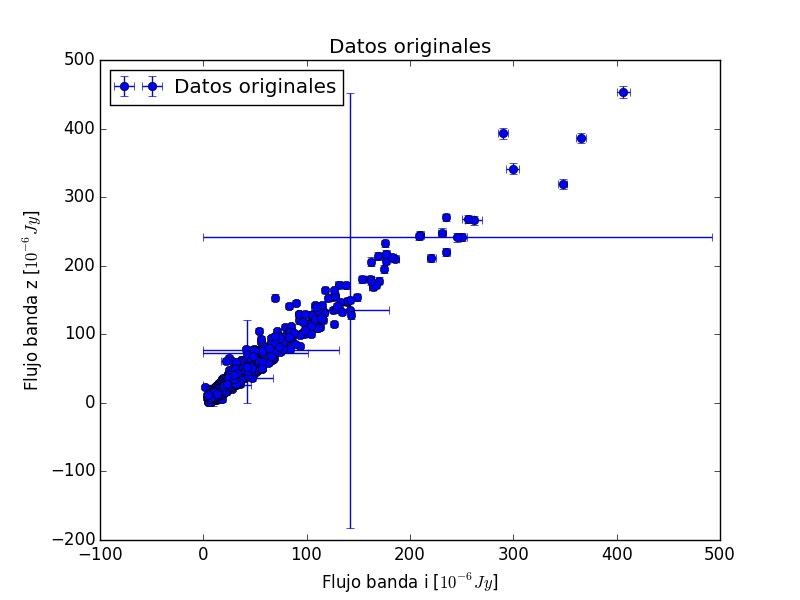
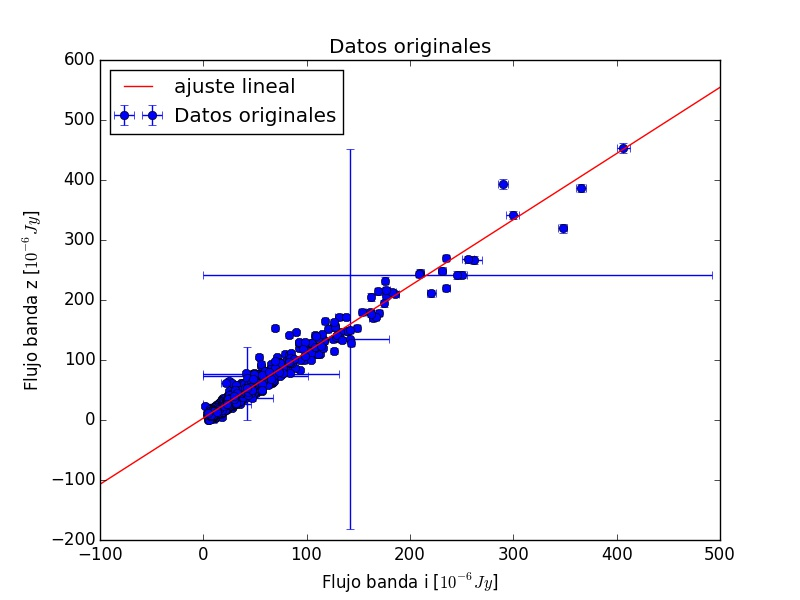
ajustelineal para p3

diff --git a/p3.py b/p3.py
@@ -9,11 +9,13 @@ import pdb
 co nfianza al 95 "%" a partir de los datos en data/DR9Q.dat '''
 
 
-def mostrar_datos(banda_i, error_i, banda_z, error_z):
+def mostrar_datos(banda_i, error_i, banda_z, error_z, c):
     '''grafica los datos'''
     ax, fig = plt.subplots()
-    plt.errorbar(banda_i, banda_z, xerr=error_i, yerr=error_z, fmt="o",
-                 label="Datos originales")
+    fig.errorbar(banda_i, banda_z, xerr=error_i, yerr=error_z, fmt="o",
+                 label="Datos originales y ajuste lineal")
+    x = np.linspace(-100, 500, 600)
+    fig.plot(x,c[1] + x*c[0], color="r", label="ajuste lineal")
     fig.set_title("Datos originales")
     fig.set_xlabel("Flujo banda i [$10^{-6}Jy$]")
     fig.set_ylabel("Flujo banda z [$10^{-6}Jy$]")
@@ -27,4 +29,5 @@ banda_i = data[:, 0] *  3.631
 error_i = data[:, 1] *  3.631
 banda_z = data[:, 2] *  3.631
 error_z = data[:, 3] *  3.631
-mostrar_datos(banda_i, error_i, banda_z, error_z)
+c = np.polyfit(banda_i, banda_z, 1)
+mostrar_datos(banda_i, error_i, banda_z, error_z, c)
